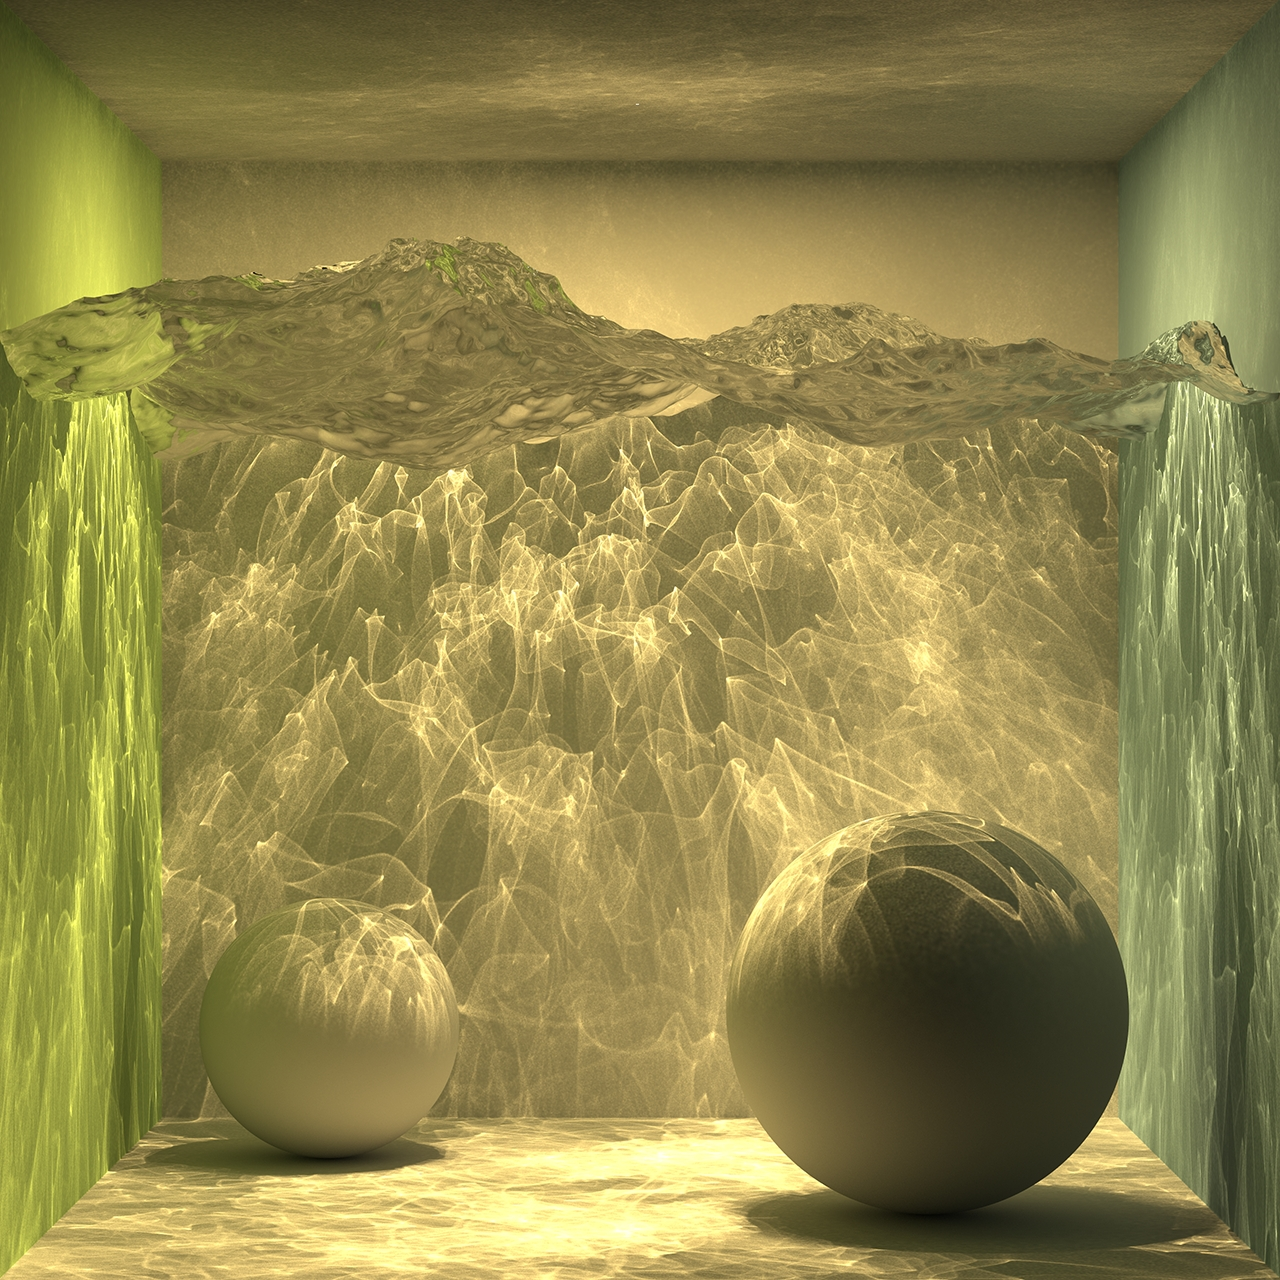
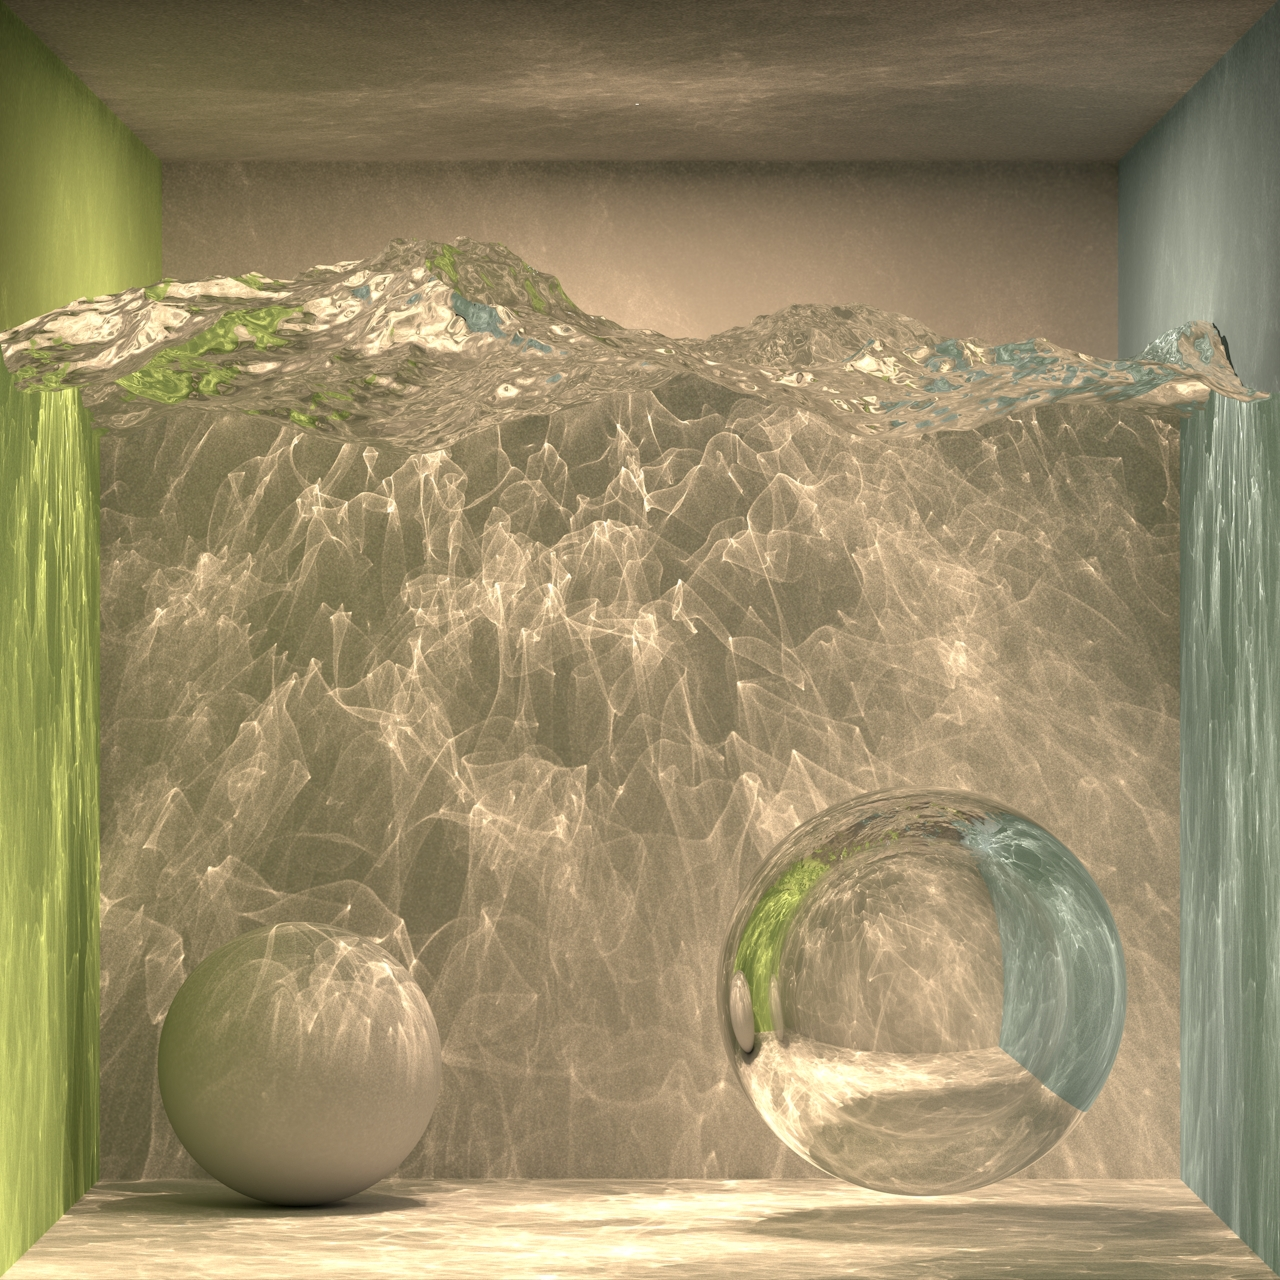
Merge master readme changes

diff --git a/README.md b/README.md
@@ -11,7 +11,7 @@ This is a physically based renderer with Path Tracing and Photon Mapping.
   <a rel="license" href="https://creativecommons.org/licenses/by/4.0/"></a>
 </div>
 <div about="renders/caustics.jpg">
-  <img src="renders/caustics.jpg" alt="Photon mapped render of caustics, 6.6 million triangles and 157 million photon particles. Original scene by Benedikt Bitterli." title="Photon mapped render of caustics, 6.6 million triangles and 157 million photon particles. Original scene by Benedikt Bitterli." />
+  <img src="renders/caustics.jpg" alt="Photon mapped render of caustics, 6.6 million triangles and 164 million photon particles. Original scene by Benedikt Bitterli." title="Photon mapped render of caustics, 6.6 million triangles and 164 million photon particles. Original scene by Benedikt Bitterli." />
   <a rel="license" href="https://creativecommons.org/licenses/by/4.0/"></a>
 </div>
 
@@ -89,7 +89,7 @@ The `max_photons_per_octree_leaf` field affects both the octree search performan
 The `use_shadow_photons` field specifies whether to use shadow photons. Shadow photons are used to determine if it's necessary to cast shadow rays or delay the global radiance evaluation in certain situations. This can improve performance and reduce artifacts in some scenes and do the opposite in other.
 
 The `direct_visualization` field can be used to visualize the photon maps directly. Setting this to true will make the program evaluate the global radiance from all photon maps at the first diffuse reflection. An example of this is in the report.
-</details><br>
+</details>
 
 ___
 
@@ -116,7 +116,7 @@ Normal naive scene intersection is used if this object is not specified. The `ty
 I've also tried splitting along all three axes each recursion to create octonary-trees. This produces good results but there's not much of an improvement compared to the quaternary version and the construction time becomes much longer due to the dimensionality curse when using 3D bins.
 
 `quaternary_sah` takes the longest to construct but tends to produce the best results. `octree` and `binary_sah` are faster to construct which is useful for quick renders. This is especially the case for the octree method, which surprisingly seems to be both faster to construct and create higher quality trees than the binary-tree SAH method.
-</details><br>
+</details>
 
 ___
 
@@ -182,7 +182,7 @@ The program has histogram-based auto-exposure which centers the histogram around
 The program also has a histogram-based auto-gain method which is applied after auto-exposure and tone-mapping, which instead tries to position the histogram of the resulting image to the right. This can similarly be offset with the optional `gain_compensation` field, which is also specified in EV units.
 
 The reason for separating these steps is that the tone-mapping/camera response is non-linear, and as a result `exposure_compensation` mostly controls the camera response (contrast, dynamic range etc.) while `gain_compensation` controls the overall image intensity.
-</details><br>
+</details>
 
 ___
 
@@ -207,8 +207,13 @@ Example:
       "imaginary": [4.52084303, 3.61703254, 2.59526494]
     }
   },
+  "water": {
+    "ior": 1.333,
+    "transparency": 1.0
+  },
   "crystal": {
     "ior": 2.0,
+    "external_medium": "water",
     "transparency":  1.0,
     "transmittance": [ 0.5, 1.0, 0.9 ],
     "specular_roughness": 0.1
@@ -234,7 +239,7 @@ The material fields are:
 
 | field                  | type        | default | interval    |
 | ---------------------- | ----------- | ------- | ----------- |
-| `reflectance`          | RGB         | 0       | [0, 1]      |
+| `reflectance`          | RGB         | 1       | [0, 1]      |
 | `specular_reflectance` | RGB         | 1       | [0, 1]      |
 | `transmittance`        | RGB         | 1       | [0, 1]      |
 | `emittance`            | RGB         | 0       | [0, ∞)      |
@@ -242,6 +247,7 @@ The material fields are:
 | `specular_roughness`   | scalar      | 0       | [0, 1]      |
 | `transparency`         | scalar      | 0       | [0, 1]      |
 | `perfect_mirror`       | bool        | 0       | {0, 1}      |
+| `external_medium`      | string      | "scene" | keys        |
 | `ior`                  | [IOR](#ior) | 0       | [IOR](#ior) |
 
 These fields are all optional and any combination of fields can be used. A material can for example be a combination of diffusely reflecting, specularly reflecting, emissive, transmissive (specularly refracting) and rough. If set to true, the `perfect_mirror` field overrides most other fields to simulate a perfect mirror with infinite IOR.
@@ -249,6 +255,8 @@ These fields are all optional and any combination of fields can be used. A mater
 The `reflectance`, `specular_reflectance` and `transmittance` fields specifies the amount of radiance that should be diffusely reflected and specularly reflected/transmitted for each RGB channel. This is a simplification since these are spectral properties that varies with wavelength and not by the resulting tristimulus values of the virtual camera, but this is computationally cheaper and simpler. These properties now take gamma-corrected values and linearizes them internally to make it easier to pick colors via color pickers.
 
 The `emittance` field defines the radiant flux of each RGB channel in watts. This means that surfaces with different surface areas will emit the same amount of radiant energy if they are assigned the same emissive material. It's also possible to set this field to a [CIE standard illuminant](https://en.wikipedia.org/wiki/Standard_illuminant) by specifying an object with an `illuminant` and a `scale` field.
+
+The `external_medium` field can be used to specify the key string of the material that the material is enclosed in. This is required to correctly render scenes with layered transmissive objects (eg. ice cubes with air bubbles in a glass of water). This field is only needed when a ray exits a transmissive object that is enclosed in another transmissive object, and is therefore not required for opaque materials or transmissive materials that only has the scene as external medium.
 
 #### IOR
 
@@ -307,7 +315,7 @@ and the same for `Y` and `Z`. The constant illuminant is also the reason why the
   <a rel="license" href="https://creativecommons.org/licenses/by/4.0/"></a>
 </div>
 
-</details><br>
+</details>
 
 ___
 
@@ -335,7 +343,7 @@ Example:
 ```
 
 Each vertex set contains an array of vertices specified as xyz-coordinates. The vertex set key string is used later to specify which set of vertices to build the surface from when creating surfaces of `object` type.
-</details><br>
+</details>
 
 ___
 
@@ -435,7 +443,7 @@ Quadric surfaces currently do not support emissive materials (the emissive part 
 
 ___
 <sup>1</sup> The usual quadric equation looks slightly different when it's derived from the quadric matrix representation *p<sup>T</sup>Qp* since this results in some constants being doubled. The program uses this representation internally, but I've eliminated this in the scene format since it's easier to not have to think about whether or not some constants will be doubled when creating a surface.
-</details><br>
+</details>
 
 ___
 
@@ -462,9 +470,11 @@ The following resources have been useful the project:
 * [Importance Sampling techniques for GGX with Smith Masking-Shadowing - Joe Schutte](https://schuttejoe.github.io/post/ggximportancesamplingpart2/)
 * [PBR Diffuse Lighting for GGX+Smith Microsurfaces - Earl Hammon](https://twvideo01.ubm-us.net/o1/vault/gdc2017/Presentations/Hammon_Earl_PBR_Diffuse_Lighting.pdf)
 * [Memo on Fresnel Equations - Sébastien Lagarde](https://seblagarde.wordpress.com/2013/04/29/memo-on-fresnel-equations/)
+* [Useful Color Equations - Bruce Lindbloom](http://www.brucelindbloom.com/)
 * [Filmic Tonemapping Operators - John Hable](http://filmicworlds.com/blog/filmic-tonemapping-operators/)
 * [Automatic Exposure - Krzysztof Narkowicz](https://knarkowicz.wordpress.com/2016/01/09/automatic-exposure/)
 * [Better Sampling - Rory Driscoll](http://www.rorydriscoll.com/2009/01/07/better-sampling/)
 * [Introduction to Acceleration Structures - Scratchapixel](https://www.scratchapixel.com/lessons/advanced-rendering/introduction-acceleration-structure/bounding-volume-hierarchy-BVH-part1)
 * [Refractive index database - Mikhail Polyanskiy](https://refractiveindex.info/)
 * [The Stanford 3D Scanning Repository](http://graphics.stanford.edu/data/3Dscanrep/)
+* [Rendering Resources - Benedikt Bitterli](https://benedikt-bitterli.me/resources/)
